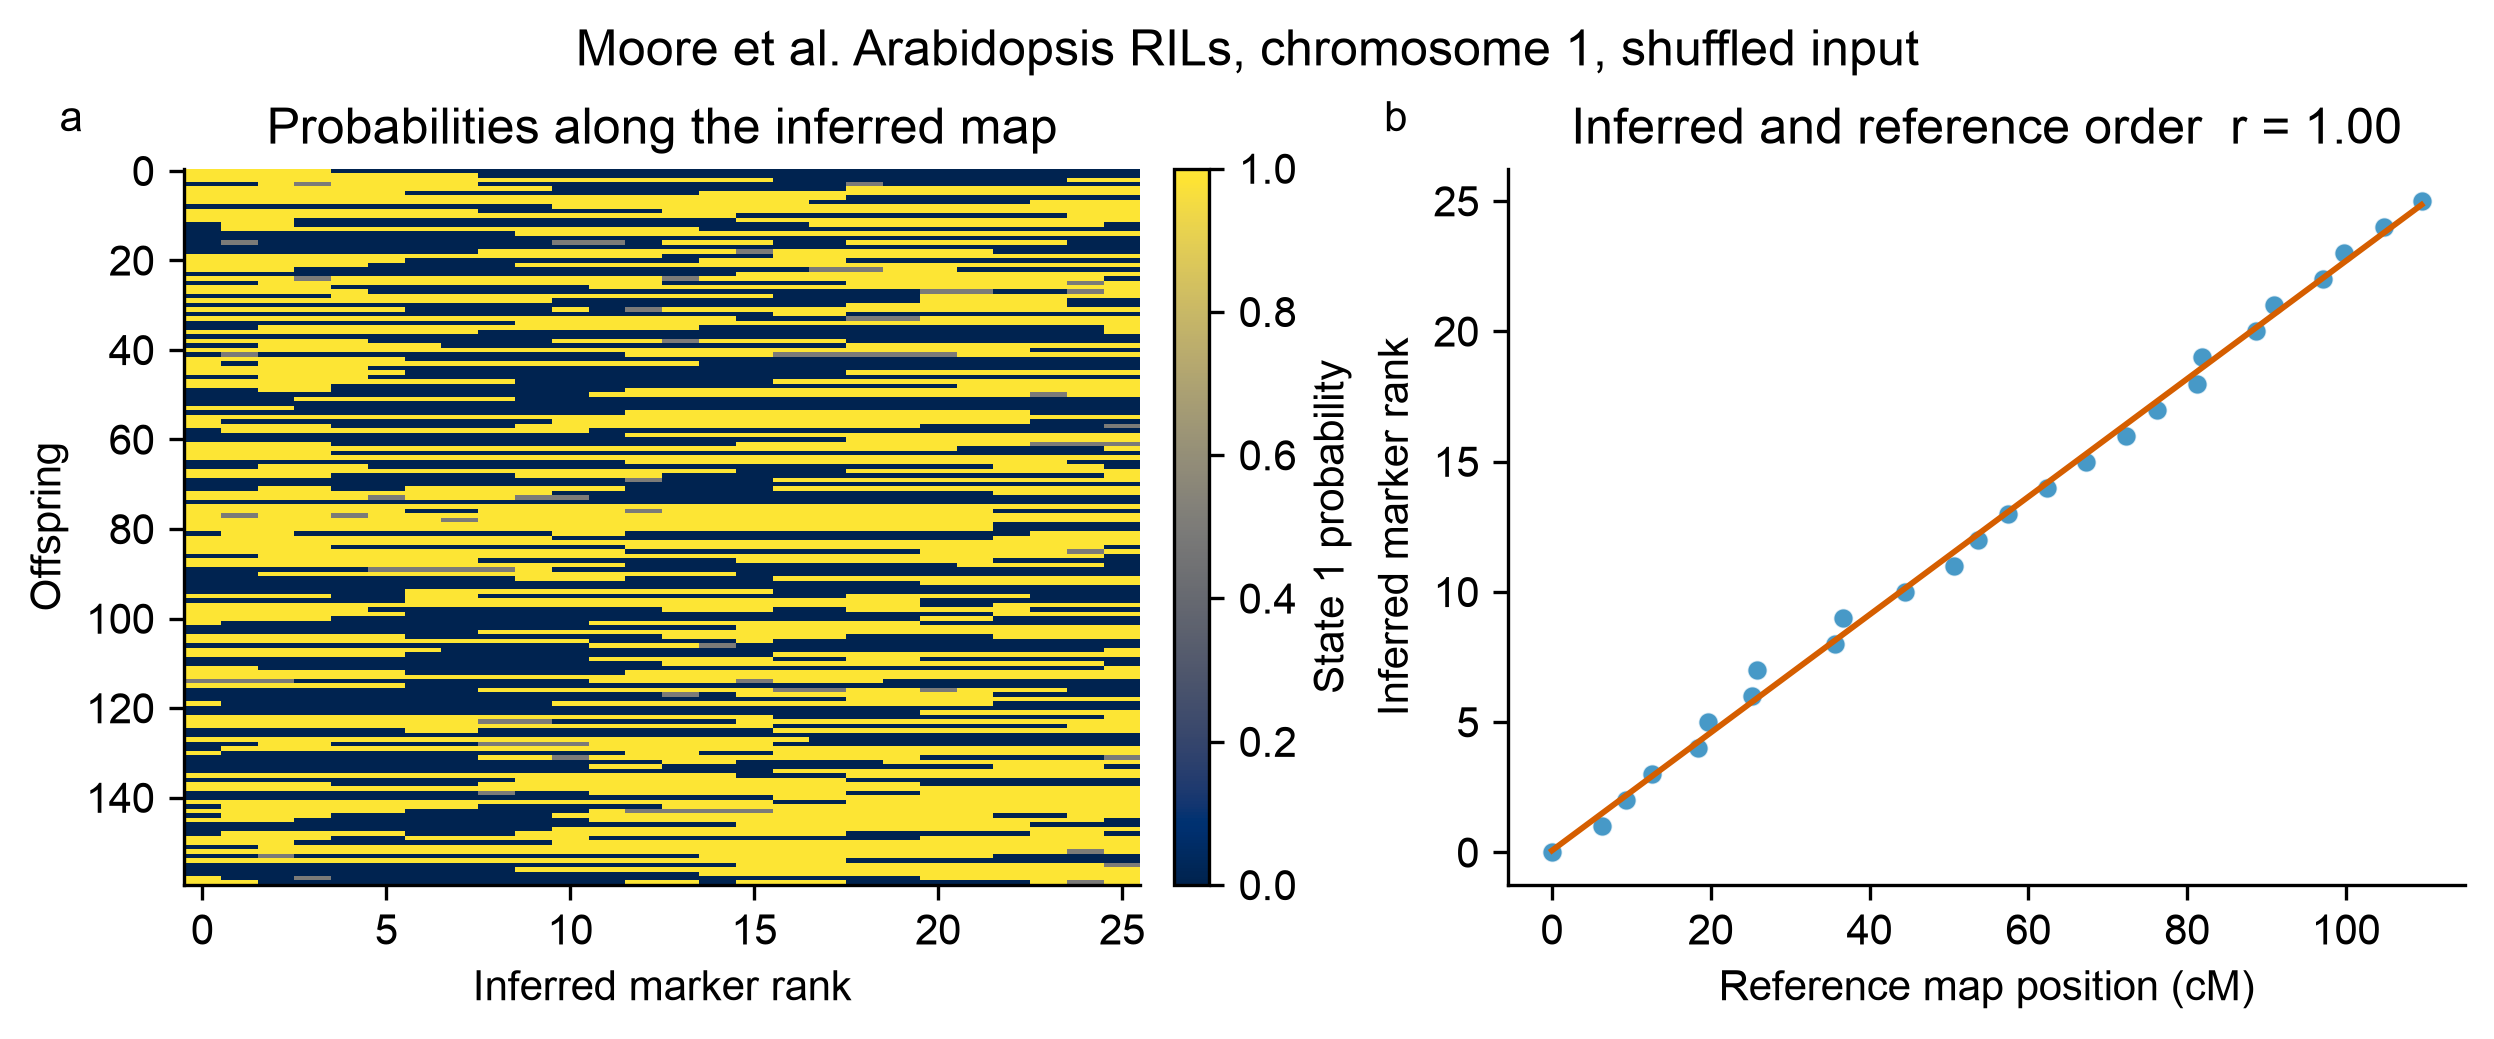
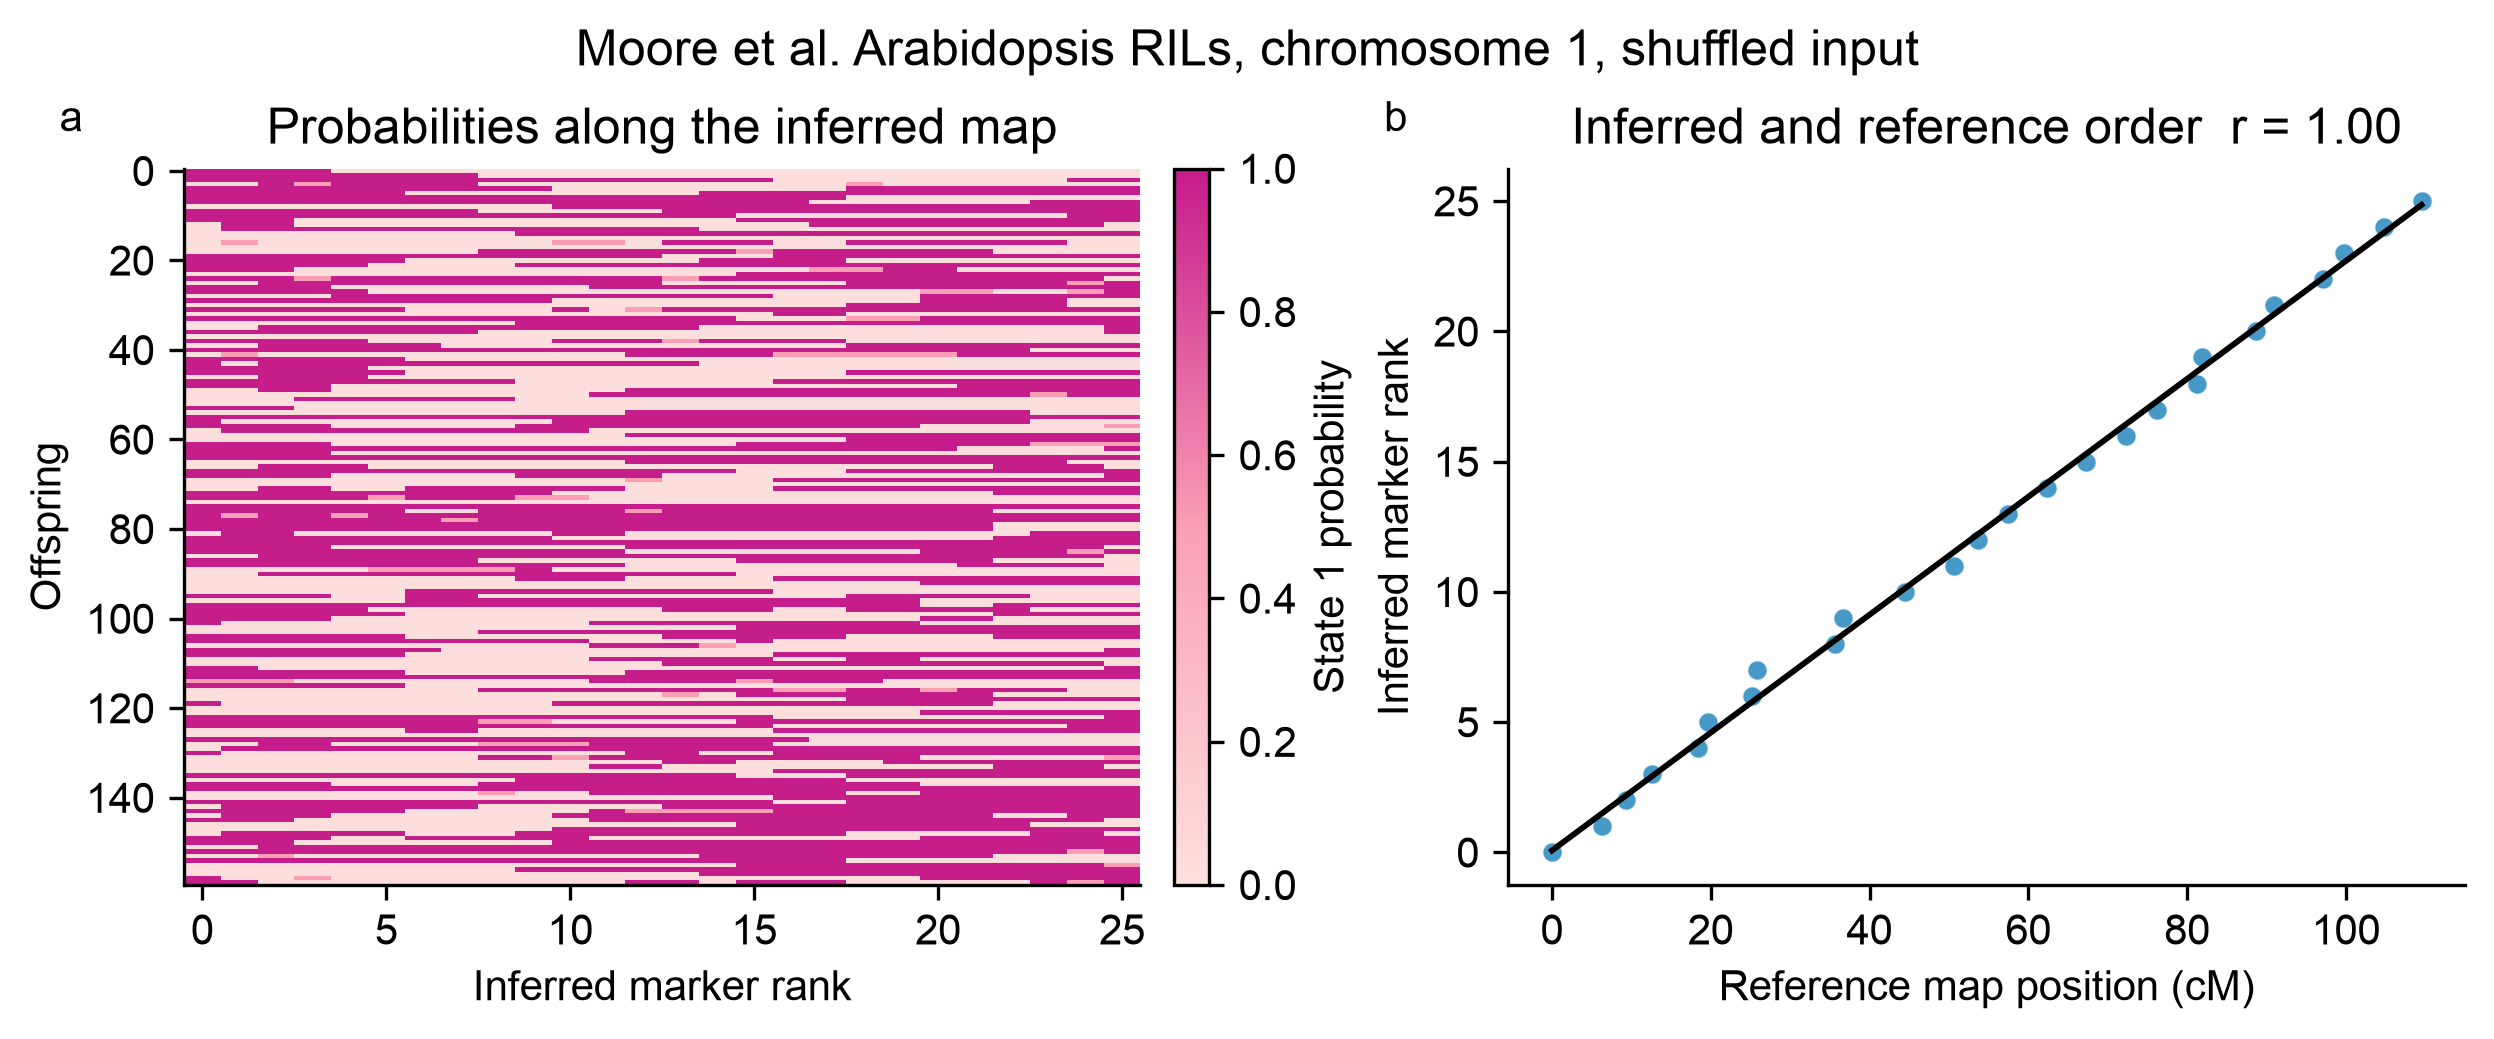
Simplify case study presentation

diff --git a/docs/stylesheets/extra.css b/docs/stylesheets/extra.css
@@ -27,128 +27,3 @@ h6,
 .md-typeset code {
   border-radius: 0.25rem;
 }
-
-.case-summary {
-  display: grid;
-  grid-template-columns: repeat(3, minmax(0, 1fr));
-  gap: 0.7rem;
-  margin: 1.4rem 0 2rem;
-}
-
-.case-summary > div {
-  padding: 0.9rem 1rem;
-  border: 1px solid #d9e7e5;
-  border-radius: 0.55rem;
-  background: linear-gradient(145deg, #f3faf9, #fffdf8);
-  color: #405553;
-  font-size: 0.72rem;
-  letter-spacing: 0.015em;
-}
-
-.case-summary span {
-  display: block;
-  margin-bottom: 0.08rem;
-  color: #00695c;
-  font-size: 1.55rem;
-  line-height: 1.1;
-}
-
-.case-gallery {
-  display: grid;
-  gap: 1.25rem;
-  margin-top: 1.6rem;
-}
-
-.case-card {
-  overflow: hidden;
-  padding: 1.25rem 1.35rem 1.1rem;
-  border: 1px solid #dce4e3;
-  border-top: 0.22rem solid #00897b;
-  border-radius: 0.6rem;
-  background: #fff;
-  box-shadow: 0 0.25rem 1rem rgb(35 65 61 / 7%);
-}
-
-.case-card--strong {
-  border-top-color: #2e7d32;
-}
-
-.case-card--caution {
-  border-top-color: #d58b16;
-}
-
-.md-typeset .case-card h2 {
-  margin: 0.18rem 0 0.35rem;
-  font-size: 1.35rem;
-}
-
-.md-typeset .case-card h3 {
-  margin: 1rem 0 0.25rem;
-  color: #31504c;
-  font-size: 0.82rem;
-  text-transform: uppercase;
-  letter-spacing: 0.055em;
-}
-
-.case-card__eyebrow {
-  color: #667d79;
-  font-size: 0.65rem;
-  text-transform: uppercase;
-  letter-spacing: 0.09em;
-}
-
-.case-card__lead {
-  max-width: 48rem;
-  color: #36514d;
-  font-size: 0.9rem;
-}
-
-.case-card img {
-  width: 100%;
-  margin: 0.55rem 0 0.75rem;
-  border: 1px solid #edf1f0;
-  border-radius: 0.35rem;
-}
-
-.case-metrics {
-  display: grid;
-  grid-template-columns: repeat(4, minmax(0, 1fr));
-  gap: 0.45rem;
-  margin: 0;
-}
-
-.case-metrics > div {
-  padding: 0.55rem 0.65rem;
-  border-radius: 0.35rem;
-  background: #f4f8f7;
-}
-
-.case-metrics dt {
-  color: #6a7e7a;
-  font-size: 0.6rem;
-  text-transform: uppercase;
-  letter-spacing: 0.06em;
-}
-
-.case-metrics dd {
-  margin: 0.06rem 0 0;
-  color: #153f39;
-  font-size: 1.05rem;
-}
-
-.case-card__source {
-  margin-top: 1rem;
-  padding-top: 0.75rem;
-  border-top: 1px solid #e8eeee;
-  font-size: 0.72rem;
-}
-
-@media screen and (max-width: 600px) {
-  .case-summary {
-    grid-template-columns: 1fr;
-  }
-
-  .case-metrics {
-    grid-template-columns: repeat(2, minmax(0, 1fr));
-  }
-}

diff --git a/docs/case-studies.md b/docs/case-studies.md
@@ -9,12 +9,6 @@ with a fixed seed, calls are converted to binary parental-origin probabilities, 
 SoftMap is run with 100 bootstrap replicates. The published centimorgan coordinates
 are used only afterward as an external order check.
 
-<div class="case-summary" markdown>
-  <div><span>3</span> published datasets</div>
-  <div><span>3</span> cross contexts</div>
-  <div><span>100</span> bootstraps per case</div>
-</div>
-
 ## At a glance
 
 | Study and material | Reanalysis slice | SoftMap result | What it demonstrates |
@@ -28,63 +22,90 @@ centimorgan position for representative markers. Chromosome orientation is
 arbitrary, so the sign is ignored. A published map is a useful benchmark, not
 error-free ground truth.
 
-<div class="case-gallery">
-  <article class="case-card case-card--strong">
-    <div class="case-card__eyebrow">Plant · recombinant inbred lines</div>
-    <h2>Arabidopsis gravitropism</h2>
-    <p class="case-card__lead">The clean recovery case: all 26 chromosome-1 markers enter the supported framework, in almost exactly the published order.</p>
-    <img src="../assets/case_arabidopsis_ril.png" alt="SoftMap result for chromosome 1 of the Moore Arabidopsis recombinant inbred line dataset">
-    <dl class="case-metrics">
-      <div><dt>Lines</dt><dd>162</dd></div>
-      <div><dt>Markers</dt><dd>26</dd></div>
-      <div><dt>Framework</dt><dd>26</dd></div>
-      <div><dt>Order r</dt><dd>0.999</dd></div>
-    </dl>
-    <h3>What went in</h3>
-    <p>Replicate 2 from Moore et al. (2013), an Arabidopsis Bay × Sha recombinant-inbred population used to study root gravitropism. Homozygous L and C calls become 0.01 and 0.99; missing calls remain 0.5.</p>
-    <h3>What SoftMap adds</h3>
-    <p>The probability matrix becomes a continuous block pattern after ordering, and every representative marker passes 80% pairwise bootstrap support. This is the behavior expected when the cross matches the model and the chromosome contains enough informative recombinations.</p>
-    <p class="case-card__source"><a href="https://doi.org/10.1534/genetics.113.152678">Study</a> · <a href="https://rqtl.org/qtl2/pages/sampledata.html">R/qtl2 source data</a></p>
-  </article>
+## Arabidopsis gravitropism
 
-  <article class="case-card">
-    <div class="case-card__eyebrow">Plant · contemporary hybridization</div>
-    <h2>Arabis floodplain hybrids</h2>
-    <p class="case-card__lead">A dense, phase-limited example: all 304 source markers reduce to 50 informative segregation patterns and a supported 18-marker framework.</p>
-    <img src="../assets/case_arabis_hybridization.png" alt="SoftMap result for chromosome 1 of the Rahnamae Arabis hybridization dataset">
-    <dl class="case-metrics">
-      <div><dt>Offspring</dt><dd>742</dd></div>
-      <div><dt>Markers</dt><dd>304</dd></div>
-      <div><dt>Bins / framework</dt><dd>50 / 18</dd></div>
-      <div><dt>Order r</dt><dd>0.962</dd></div>
-    </dl>
-    <h3>What went in</h3>
-    <p>All 304 chromosome-1 markers from Rahnamae et al. (2025). NN and SS calls become 0.01 and 0.99. Heterozygous NS and missing calls become 0.5 because their phase is unresolved in SoftMap's binary representation.</p>
-    <h3>How to read the result</h3>
-    <p>This is a conversion stress test, not a replacement F2 map. Automatic binning groups patterns with at most 2% expected disagreement before ordering: 304 markers become 50 bins, 18 of which enter the 80%-supported framework. The stronger chromosome-scale agreement shows the value of the full marker set without pretending that unphased heterozygotes contain binary parental-origin information.</p>
-    <p class="case-card__source"><a href="https://github.com/nedarahnama/Contemporary_hybridization">Study repository and source data</a></p>
-  </article>
+*Plant recombinant inbred lines.* This is the clean recovery case: all 26
+chromosome-1 markers enter the supported framework in almost exactly the published
+order.
 
-  <article class="case-card case-card--caution">
-    <div class="case-card__eyebrow">Mammal · backcross</div>
-    <h2>Salt-induced hypertension in mice</h2>
-    <p class="case-card__lead">The cautionary case: the point order follows the published map broadly, but bootstrap evidence supports only two framework markers.</p>
-    <img src="../assets/case_mouse_backcross.png" alt="SoftMap result for chromosome 1 of the Sugiyama mouse hypertension backcross">
-    <dl class="case-metrics">
-      <div><dt>Offspring</dt><dd>250</dd></div>
-      <div><dt>Markers</dt><dd>22</dd></div>
-      <div><dt>Framework</dt><dd>2</dd></div>
-      <div><dt>Order r</dt><dd>0.701</dd></div>
-    </dl>
-    <h3>What went in</h3>
-    <p>Chromosome 1 from the Sugiyama et al. (2001) mouse backcross. Calls 0 and 1 become 0.01 and 0.99; missing calls become 0.5. The original experiment typed many markers only in animals with extreme blood-pressure phenotypes.</p>
-    <h3>Why limited support is the result</h3>
-    <p>Selective genotyping leaves different markers informed by different subsets of offspring. SoftMap can propose a point order, but the resampled data do not justify a long fixed framework. Reporting two supported markers is more useful than presenting all 22 as equally certain.</p>
-    <p class="case-card__source"><a href="https://doi.org/10.1006/geno.2000.6411">Study</a> · <a href="https://github.com/kbroman/qtl/blob/main/man/hyper.Rd">R/qtl dataset documentation</a></p>
-  </article>
-</div>
+![SoftMap result for chromosome 1 of the Moore Arabidopsis recombinant inbred line dataset](assets/case_arabidopsis_ril.png)
 
-## Reproduce the gallery
+| Lines | Markers | Framework markers | Order correlation |
+| ---: | ---: | ---: | ---: |
+| 162 | 26 | 26 | 0.999 |
+
+### Input
+
+The input is replicate 2 from Moore et al. (2013), an Arabidopsis Bay × Sha
+recombinant-inbred population used to study root gravitropism. Homozygous L and C
+calls become 0.01 and 0.99; missing calls remain 0.5.
+
+### Interpretation
+
+The probability matrix becomes a continuous block pattern after ordering, and every
+representative marker passes 80% pairwise bootstrap support. This is the expected
+behavior when the cross matches the model and the chromosome contains enough
+informative recombinations.
+
+Sources: [original study](https://doi.org/10.1534/genetics.113.152678) and
+[R/qtl2 source data](https://rqtl.org/qtl2/pages/sampledata.html).
+
+## Arabis floodplain hybrids
+
+*Plant contemporary hybridization.* This is a dense, phase-limited example: all
+304 source markers reduce to 50 informative segregation patterns and a supported
+18-marker framework.
+
+![SoftMap result for chromosome 1 of the Rahnamae Arabis hybridization dataset](assets/case_arabis_hybridization.png)
+
+| Offspring | Markers | Bins | Framework markers | Order correlation |
+| ---: | ---: | ---: | ---: | ---: |
+| 742 | 304 | 50 | 18 | 0.962 |
+
+### Input
+
+The input contains all 304 chromosome-1 markers from Rahnamae et al. (2025). NN and
+SS calls become 0.01 and 0.99. Heterozygous NS and missing calls become 0.5 because
+their phase is unresolved in SoftMap's binary representation.
+
+### Interpretation
+
+This is a conversion stress test, not a replacement F2 map. Automatic binning
+groups patterns with at most 2% expected disagreement before ordering: 304 markers
+become 50 bins, 18 of which enter the 80%-supported framework. The chromosome-scale
+agreement shows the value of the full marker set without treating unphased
+heterozygotes as binary parental-origin information.
+
+Source: [study repository and data](https://github.com/nedarahnama/Contemporary_hybridization).
+
+## Salt-induced hypertension in mice
+
+*Mammal backcross.* This is the cautionary case: the point order follows the
+published map broadly, but bootstrap evidence supports only two framework markers.
+
+![SoftMap result for chromosome 1 of the Sugiyama mouse hypertension backcross](assets/case_mouse_backcross.png)
+
+| Offspring | Markers | Framework markers | Order correlation |
+| ---: | ---: | ---: | ---: |
+| 250 | 22 | 2 | 0.701 |
+
+### Input
+
+The input is chromosome 1 from the Sugiyama et al. (2001) mouse backcross. Calls 0
+and 1 become 0.01 and 0.99; missing calls become 0.5. The original experiment typed
+many markers only in animals with extreme blood-pressure phenotypes.
+
+### Interpretation
+
+Selective genotyping leaves different markers informed by different subsets of
+offspring. SoftMap can propose a point order, but the resampled data do not justify
+a long fixed framework. Reporting two supported markers is more useful than
+presenting all 22 as equally certain.
+
+Sources: [original study](https://doi.org/10.1006/geno.2000.6411) and
+[R/qtl dataset documentation](https://github.com/kbroman/qtl/blob/main/man/hyper.Rd).
+
+## Reproduce the analyses
 
 The loaders read the public source tables directly; no processed genotype files are
 stored in this repository.
@@ -109,6 +130,6 @@ Run all three cases with:
 python examples/published_case_studies.py
 ```
 
-The gallery is a method check, not a biological re-interpretation of the original
+These examples are method checks, not biological reinterpretations of the original
 phenotypes or QTLs. SoftMap estimates marker order and ordering confidence; it does
 not estimate centimorgan distances in these examples.
